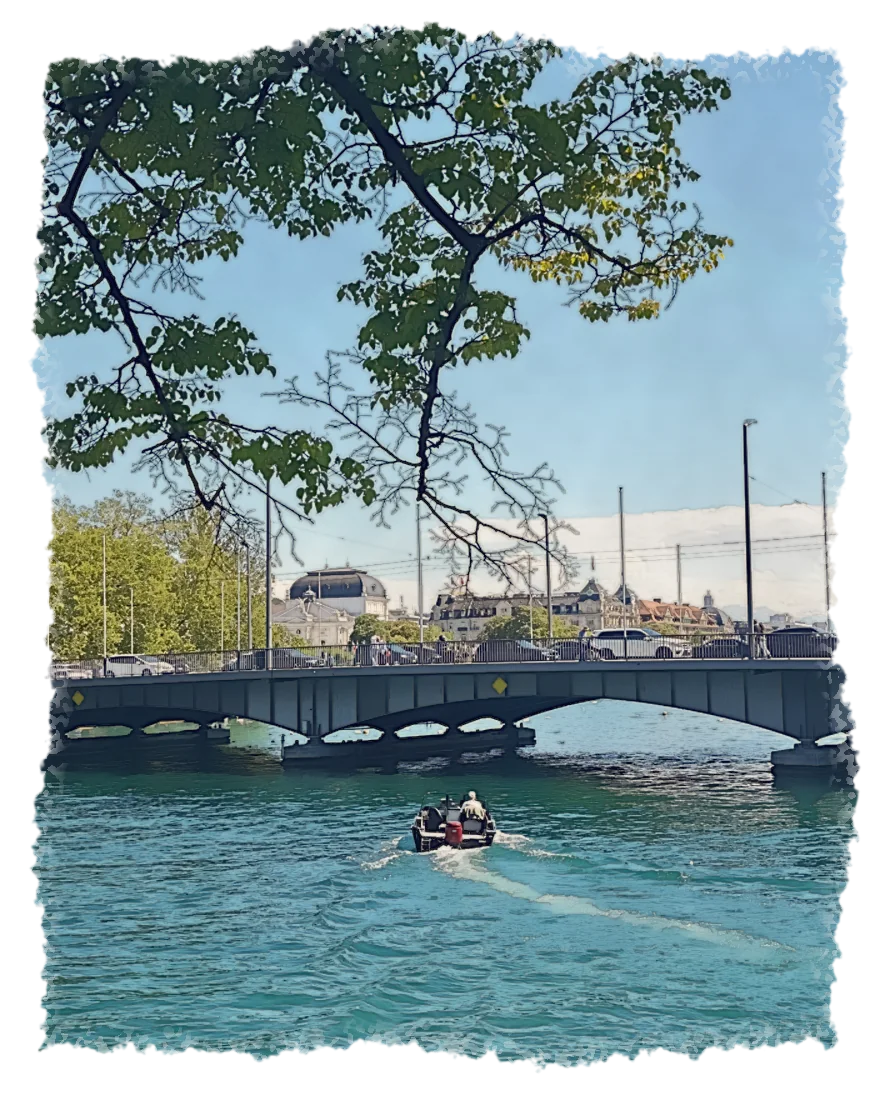
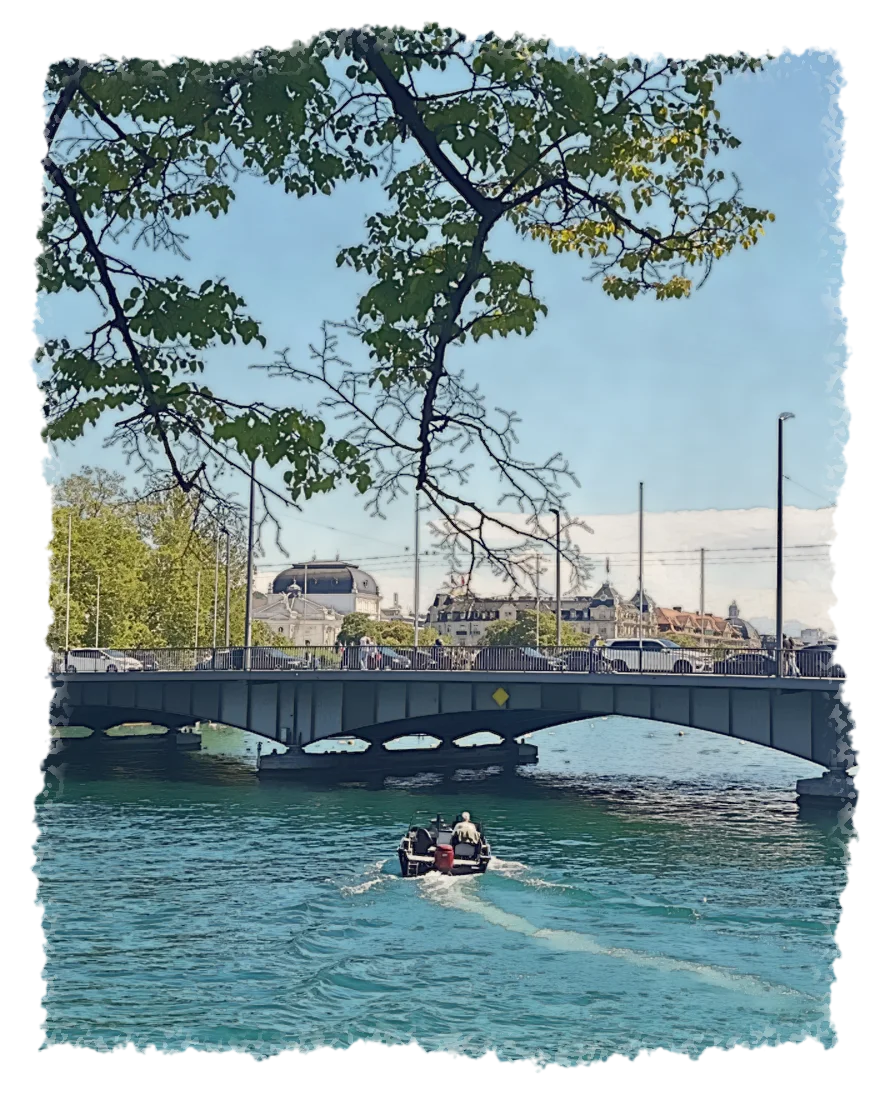
Level the Quaibrücke painting; drop the return buttons
The bridge photo is rotated 2° before painting so the bridge sits level.
The coat of arms at the top of each page already leads home.

Claude-Session: https://claude.ai/code/session_01NGvW8y4aypVsC6WPXTU7ib

diff --git a/index.html b/index.html
@@ -91,7 +91,7 @@ body{position:relative}
   <p class="rv">It began with a simple wish: to bring together people who would rather listen than impress.</p>
   <p class="rv">Membership is offered <em>on request</em>, through those already at the table.</p>
 </section>
-  <img class="paint boat rv" src="img/maison-baer-4-quaibruecke.webp" alt="A boat on the Limmat heading for the bridge, painted" width="880" height="1100" loading="lazy" decoding="async">
+  <img class="paint boat rv" src="img/maison-baer-4-quaibruecke.webp?v=2" alt="A boat on the Limmat heading for the bridge, painted" width="880" height="1100" loading="lazy" decoding="async">
 </main>
 
 <footer><span>© Maison Baer 2026</span><a href="legal.html">Legal Notice</a></footer>

diff --git a/membership.html b/membership.html
@@ -65,7 +65,6 @@ body{position:relative}
     <p>Seven seats are laid at every dinner. When one becomes free, it is offered.</p>
   </div>
   <p class="cta"><a href="mailto:hans@mrbaer.ch?subject=Request%20Membership&amp;body=Name%3A%0D%0AIntroduced%20by%3A%0D%0ACity%3A%0D%0A">Request membership</a></p>
-  <p class="back"><a href="index.html">return</a></p>
 </main>
 
 <footer><span>© Maison Baer 2026</span><a href="legal.html">Legal Notice</a></footer>

diff --git a/house.html b/house.html
@@ -64,7 +64,6 @@ body{position:relative}
     <p>A house in the old sense. Not a building, but a name, a table, and the people who keep returning to it.</p>
     <p>It began as a table for <em>seven</em>. The name has changed since; the number has not.</p>
   </div>
-  <p class="back"><a href="index.html">return</a></p>
 </main>
 
 <footer><span>© Maison Baer 2026</span><a href="legal.html">Legal Notice</a></footer>

diff --git a/legal.html b/legal.html
@@ -85,7 +85,6 @@ body{position:relative}
     <p>Personal data sent by e-mail is used solely to answer the request and is not passed on to third parties. Questions regarding your data can be directed to the address above.</p>
   </section>
 
-  <p class="back"><a href="index.html">return</a></p>
 </main>
 
 <footer><span>© Maison Baer 2026</span></footer>
